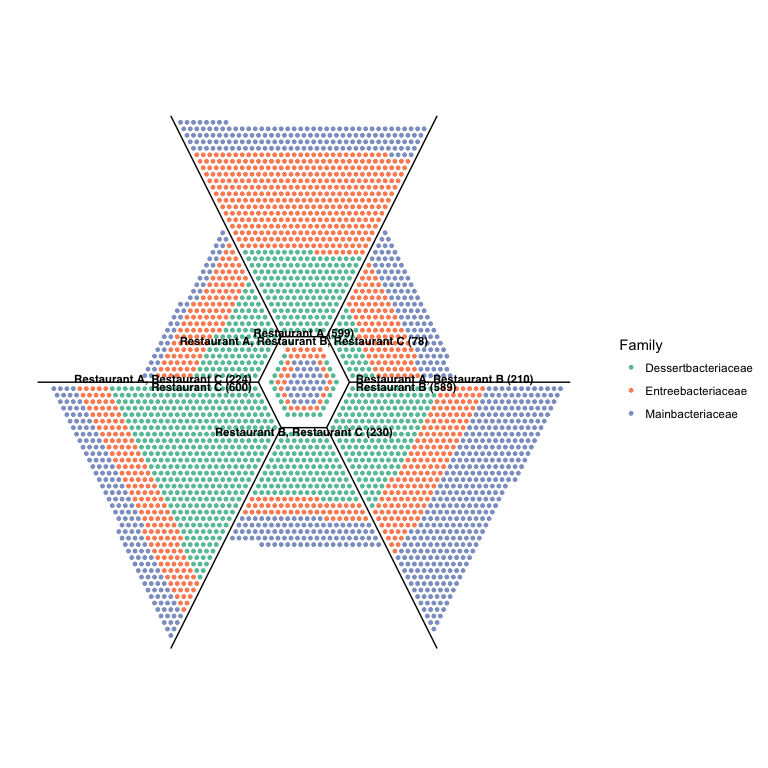
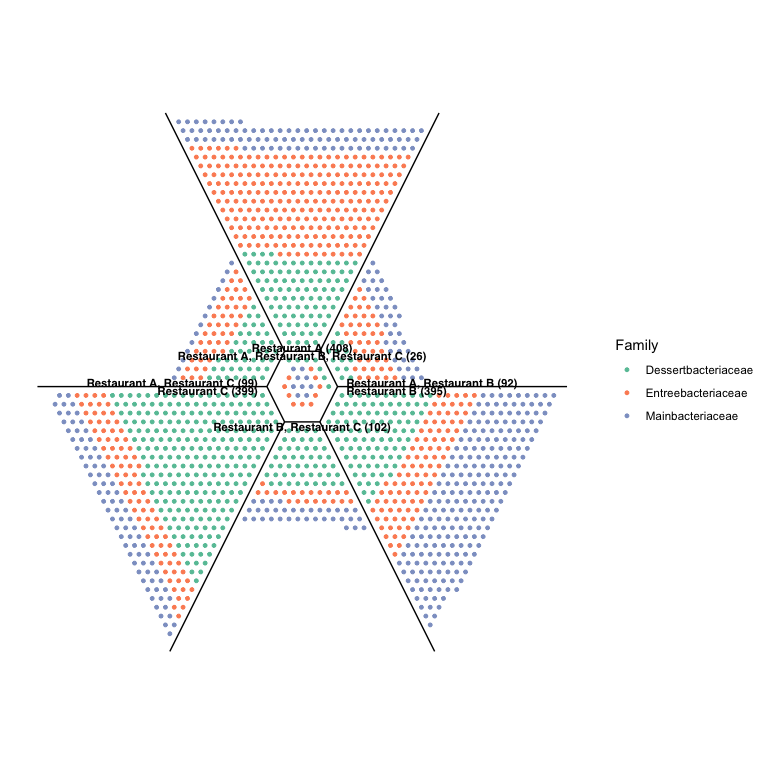
Fix bug in `collapse` calculation

Changed region(s): [[0.0625, 0.1562, 0.75, 0.8438], [0.8125, 0.4375, 0.9688, 0.5625]]

diff --git a/NEWS.md b/NEWS.md
@@ -1,0 +1,9 @@
+# v0.3.0.9001
+
+# Minor changes
+
+- Added a `NEWS.md` file to track changes to the package.
+
+# Bug fixes
+
+- Fixed incorrect calculation of `collapse` values.
